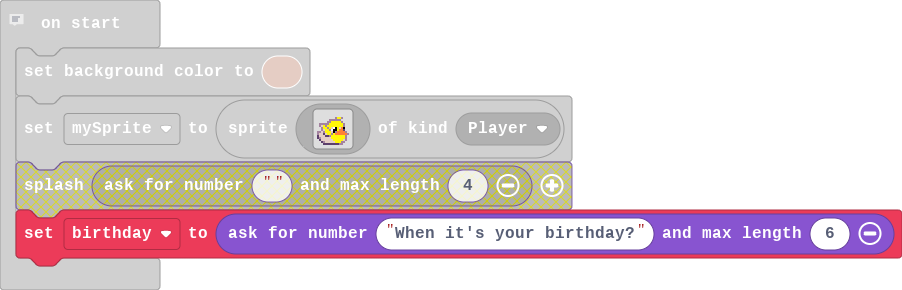
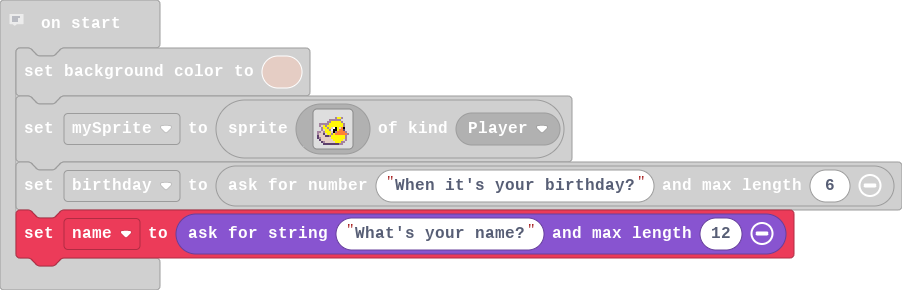
Update main.blocks, main.ts

Changed region(s): [[0.0, 0.5276, 1.0, 0.9]]

diff --git a/main.ts b/main.ts
@@ -19,3 +19,4 @@ let mySprite = sprites.create(img`
     . . . c c c c c c c c b b . . . 
     `, SpriteKind.Player)
 let birthday = game.askForNumber("When it's your birthday?", 6)
+let name = game.askForString("What's your name?", 12)
